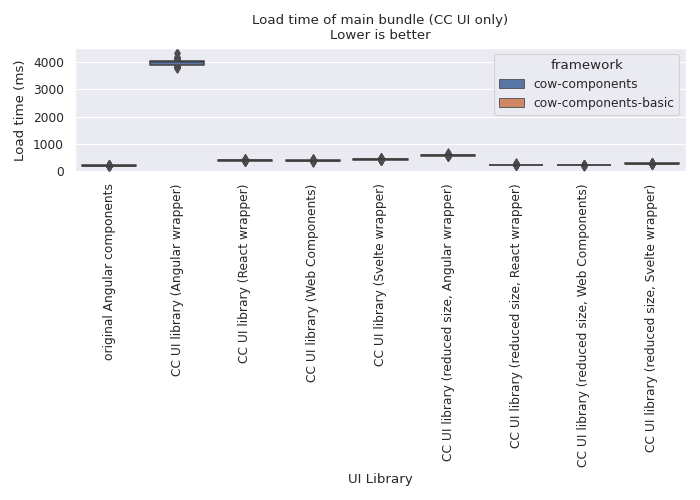
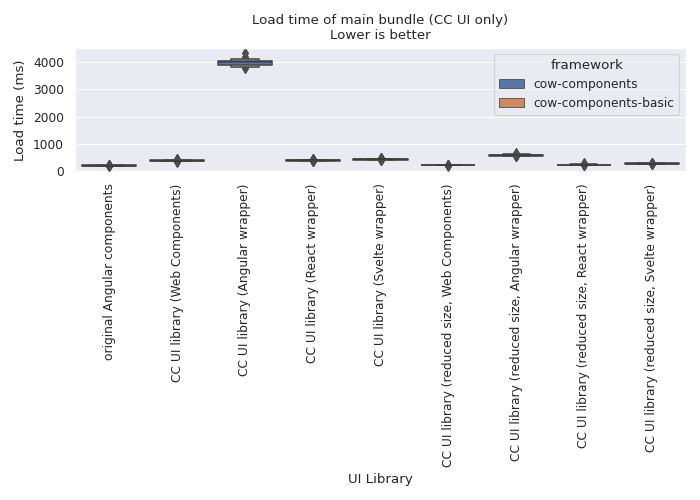
change order of bundles

diff --git a/paper/plots/data/get_data.py b/paper/plots/data/get_data.py
@@ -117,15 +117,35 @@ class FrameworkData:
 
     framework: str
 
+    @staticmethod
+    def find_in_arr(arr: List[Any], finder: Callable[[Any], bool]) -> Optional[Any]:
+        for item in arr:
+            if finder(item):
+                return item
+        return None
+
     def __init__(self, data_obj: Dict[str, Any], framework: str):
         self.framework = framework
 
         self._bundles = {}
         self._bundle_list = []
-        for bundle in data_obj:
+
+        def add_bundle_to_lists(bundle: str):
             bundle_data = BundleData(data_obj[bundle], framework, bundle)
             self._bundles[bundle] = bundle_data
             self._bundle_list.append(bundle_data)
+
+        if "cow-components" in framework:
+            dashboard_key = self.find_in_arr(data_obj.keys(), lambda key: "dashboard" in key)
+            if dashboard_key:
+                add_bundle_to_lists(dashboard_key)
+            add_bundle_to_lists(self.find_in_arr(data_obj.keys(), lambda key: "native" in key))
+            non_native_dashboard_keys = list(filter(lambda key: "dashboard" not in key and "native" not in key, data_obj.keys()))
+            for non_native_dashboard_key in non_native_dashboard_keys:
+                add_bundle_to_lists(non_native_dashboard_key)
+
+        for bundle in data_obj:
+            add_bundle_to_lists(bundle)
 
     def get_data_for_bundle(self, bundle: str) -> Optional[BundleData]:
         return self._bundles[bundle]

diff --git a/paper/plots/data/__init__.py b/paper/plots/data/__init__.py
@@ -1,1 +1,1 @@
-from .get_data import get_data, create_plot, create_dataframe, rewrite_bundle
+from .get_data import get_data, create_plot, create_dataframe, rewrite_bundle, BundleData
